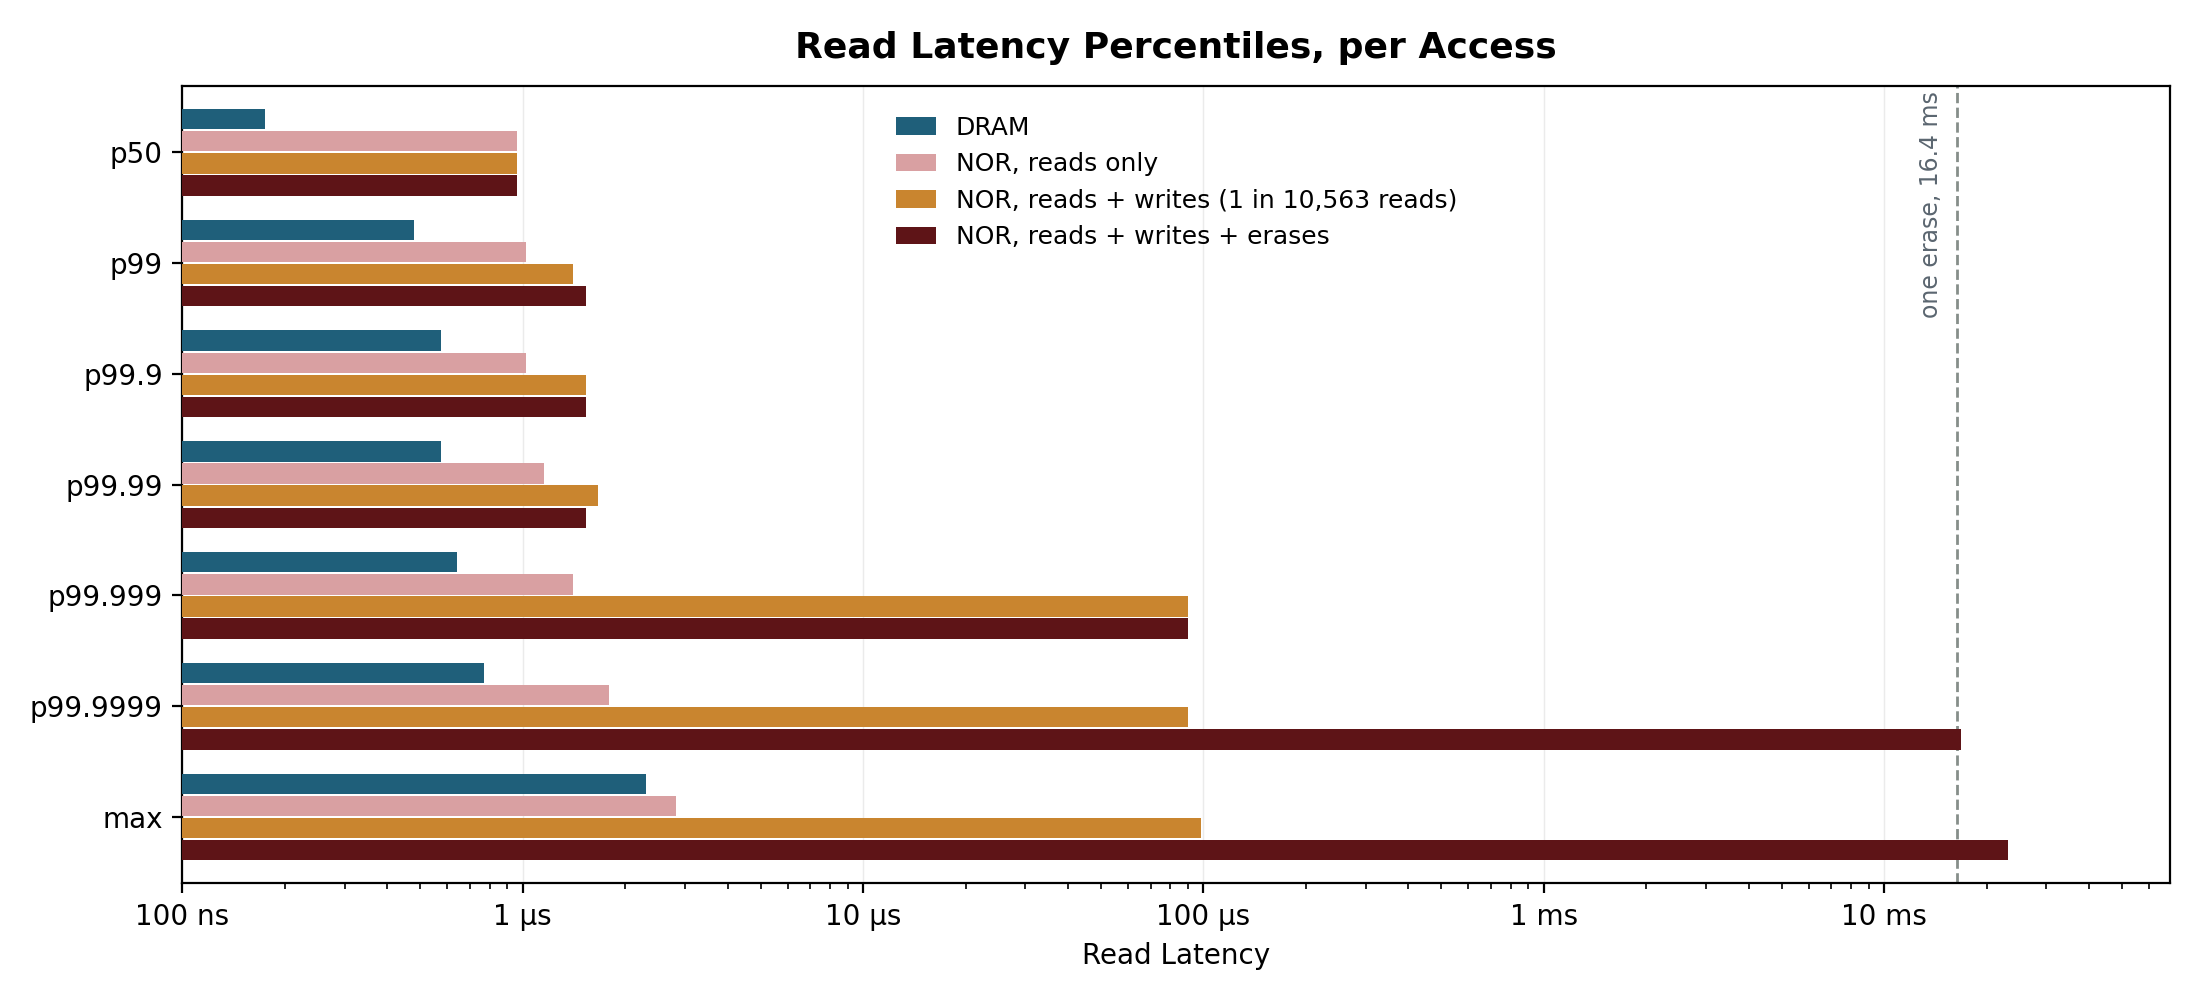
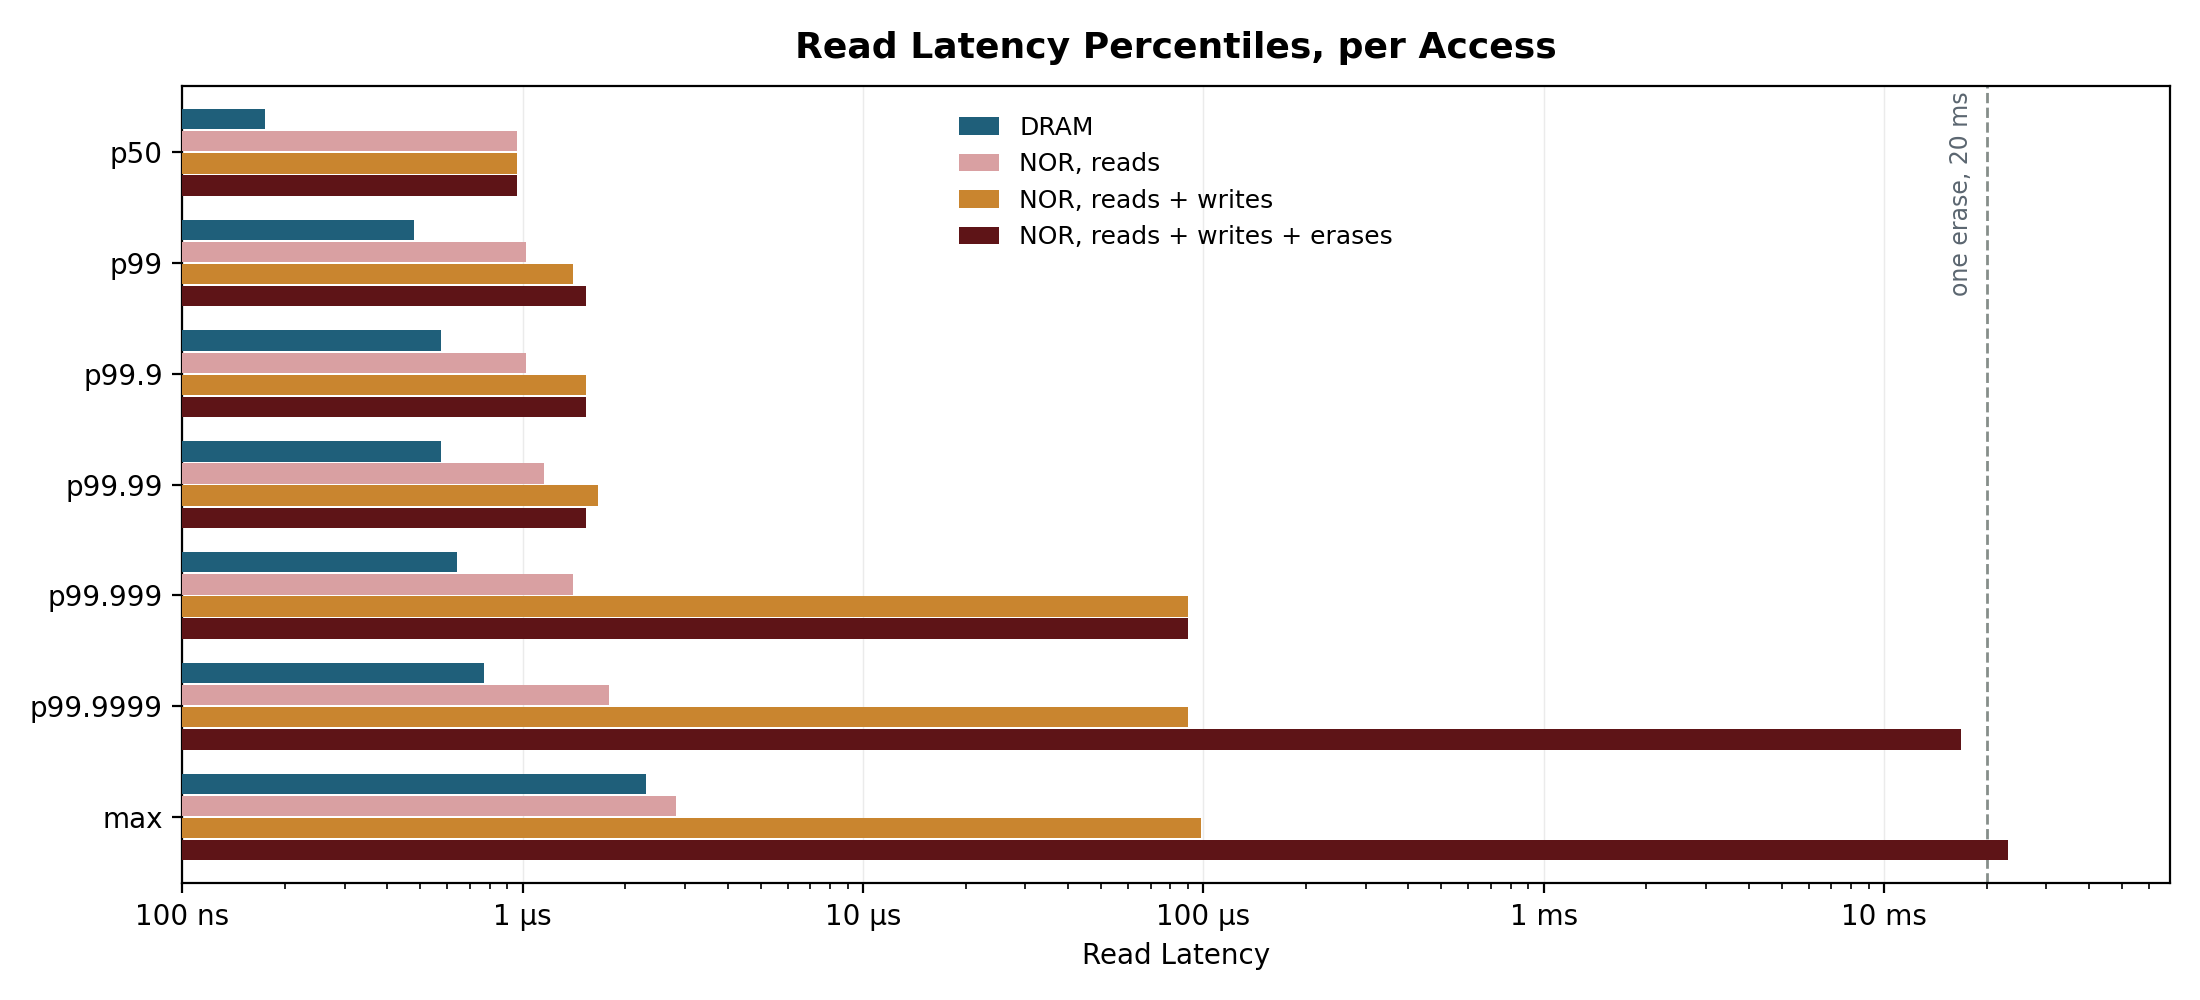
fig9b: datasheet reference lines, and an axis that ends where the data does
The reference lines were 16.4 ms and a per-chunk figure derived by dividing a
1.2 ms page program by 16. The datasheet numbers are 20 ms for an erase and
80 us for a page program, and 80 us needs no dividing: a page IS 256 B, so it
is already the unit a concurrent read waits on. That makes the comparison
direct instead of arithmetic -- measured 90.1 us against a datasheet 80 us --
and 16 x 80 us = 1.28 ms lines up with the 1.13 ms measured for a full 4 KiB.

The old numbers are still asserted in ten other files (selftest.sh, sweep*.sh,
the backend README, ltram_policy.c). Not touched here: they want one sweep
with the datasheet open, not a search-and-replace from a figure commit.

Axis: curves now run to their own 1 - 1/n, which with 169-423 M reads is
99.9999998%, rather than stopping at 99.99997% and ramping to the max. A
straight line out to the max invented a slope through percentiles that were
never resolved; the real shape is a step, and every knee now reads as one.
The 50% tick also moves to 0.301 where nines(0.5) actually is, not 0.

Changed region(s): [[0.4018, 0.093, 0.68, 0.248], [0.8655, 0.093, 0.8964, 0.31]]

diff --git a/scripts/plot_selftest.py b/scripts/plot_selftest.py
@@ -547,10 +547,10 @@ if r:
     # keeps the DRAM blue.
     LABEL = {"dram":            (C_DRAM,    "DRAM"),
              "dram_control":    (C_DRAM,    "DRAM control (no flash at all)"),
-             "nor_read":        ("#D9A0A2", "NOR, reads only"),
+             "nor_read":        ("#D9A0A2", "NOR, reads"),
              "engine_off":      ("#D9A0A2", "NOR, no background erasing"),
-             "nor_write":       ("#C9852F", "NOR, reads + writes (1 in 10,563 reads)"),
-             "nor_erase":       ("#9E2F33", "NOR, reads + erases (1 in 181,903 reads)"),
+             "nor_write":       ("#C9852F", "NOR, reads + writes"),
+             "nor_erase":       ("#9E2F33", "NOR, reads + erases"),
              "erasing":         ("#9E2F33", "NOR, erasing every 28.8 ms"),
              "nor_write_erase": ("#5E1417", "NOR, reads + writes + erases"),
              "engine_spaced":   (C_NOR,     "NOR, erasing at 7.2/s (30 ms spacing)"),
@@ -598,8 +598,8 @@ if r:
                   for j2 in range(len(QS))]
             ax.barh(ys, [v - X0 for v in vals], left=X0, height=h * 0.92,
                     color=colour, label=label, zorder=3)
-        ax.axvline(16.4, color=C_GRID, lw=1, ls="--", zorder=2)
-        ax.annotate("one erase, 16.4 ms", (16.4, len(QS) - 0.45),
+        ax.axvline(20.0, color=C_GRID, lw=1, ls="--", zorder=2)
+        ax.annotate("one erase, 20 ms", (20.0, len(QS) - 0.45),
                     xytext=(-5, 0), textcoords="offset points",
                     ha="right", va="top", fontsize=8.5, color="#5b6670", rotation=90)
         ax.set_yticks(range(len(QS)))
@@ -661,16 +661,22 @@ if r:
         NINES = [(0.5, "50%"), (0.99, "99%"), (0.999, "99.9%"), (0.9999, "99.99%"),
                  (0.99999, "99.999%"), (0.999999, "99.9999%"), (0.9999999, "99.99999%")]
         def nines(q): return -__import__("math").log10(1.0 - q)
+        # The axis ends where the data does. With n reads the largest
+        # observation IS the quantile at 1 - 1/n, so that is the real right
+        # edge; truncating earlier and drawing a straight line out to the max
+        # would invent a slope through percentiles that were never resolved.
+        NS = {c: sum(k for _, k in hist(c)) for c, _, _ in have}
+        XR = max(nines(1.0 - 1.0 / n) for n in NS.values())
         for cond, colour, label in have:
-            n = sum(c for _, c in hist(cond))
-            # Resolve only as far as the sample count supports: the last
-            # meaningful quantile is 1 - 1/n, past which we are plotting one
-            # observation and calling it a percentile.
+            n = NS[cond]
             qmax = 1.0 - 1.0 / n
-            qs = [0.5 + (1 - 0.5) * (1 - 10 ** (-t / 40.0)) for t in range(0, 241)]
+            qs = [1.0 - 0.5 * 10 ** (-t / 40.0) for t in range(0, 401)]
             qs = [q for q in qs if q <= qmax]
             xs = [nines(q) for q in qs]
             ys = [pct(cond, q) for q in qs]
+            # Past its own 1 - 1/n a condition has nothing left to say, and
+            # the empirical quantile is flat at the maximum by definition.
+            xs.append(XR); ys.append(pct(cond, 1.0))
             ax2.plot(xs, ys, "-", color=colour, lw=1.9, label=label)
         # The floor, drawn from the control rather than asserted. With
         # nohz_full=47 isolcpus=47 the scheduler tick is gone -- 60,012
@@ -686,30 +692,36 @@ if r:
                          f"(nothing above it in {sum(c for _, c in hist(ctl[0])):,} control reads)",
                          (0.015, fl * 2.6), xycoords=("axes fraction", "data"),
                          fontsize=8.5, color="#5b6670", va="bottom")
-        ax2.axhline(16_400_000, color=C_GRID, lw=1, ls="--", zorder=1)
-        ax2.axhline(75_000, color=C_GRID, lw=1, ls="--", zorder=1)
-        ax2.annotate("one 256 B program, 75 \u00b5s  (1.2 ms page \u00f7 16)",
-                     (0.012, 75_000), xycoords=("axes fraction", "data"),
+        ax2.axhline(20_000_000, color=C_GRID, lw=1, ls="--", zorder=1)
+        ax2.axhline(80_000, color=C_GRID, lw=1, ls="--", zorder=1)
+        ax2.annotate("one 256 B page program, 80 \u00b5s",
+                     (0.012, 80_000), xycoords=("axes fraction", "data"),
                      xytext=(0, 5), textcoords="offset points", ha="left",
                      fontsize=8.5, color="#5b6670")
         # Right-aligned: the legend owns the top-left, and the curves reach
         # this line only at the far right, so the label sits over empty axis.
         # Mid-axis: the legend owns the top-left and the erase curve climbs
         # through the top-right, so the only clear span is the middle.
-        ax2.annotate("one erase, 16.4 ms", (0.012, 16_400_000),
+        ax2.annotate("one erase, 20 ms", (0.012, 20_000_000),
                      xycoords=("axes fraction", "data"), xytext=(0, 5),
                      textcoords="offset points", ha="left",
                      fontsize=8.5, color="#5b6670")
         ax2.set_yscale("log")
-        XR = nines(0.99999975)
-        ax2.set_xticks([nines(q) for q, _ in NINES] + [XR])
-        ax2.set_xticklabels([lab for _, lab in NINES] + ["100%\n(max)"])
+        # nines(1 - 10**-k) == k exactly for k >= 1, but nines(0.5) is 0.301,
+        # not 0 -- placing the 50% tick at the origin puts it a third of a
+        # decade left of the data.
+        tk = [(nines(0.5), "50%")] + \
+             [(float(k), "%s%%" % ("99.99999999"[:k + 2] if k > 1 else "99"))
+              # ...but not one that collides with the 100% tick at the end.
+              for k in range(1, int(XR) + 1) if XR - k >= 0.9]
+        ax2.set_xticks([k for k, _ in tk] + [XR])
+        ax2.set_xticklabels([lab for _, lab in tk] + ["100%\n(max)"])
         ax2.set_yticks([1e2, 1e3, 1e4, 1e5, 1e6, 1e7])
         ax2.set_yticklabels(["100 ns", "1 \u00b5s", "10 \u00b5s", "100 \u00b5s", "1 ms", "10 ms"])
-        ax2.set_xlim(0, XR)
+        ax2.set_xlim(nines(0.5), XR)
         frame(ax2, "Where the Knees Are", "Percentile", "Read Latency")
         legend_by_last(ax2, fontsize=9, frameon=False, loc="upper left",
-                       bbox_to_anchor=(0.012, 16_400_000 / 1.9),
+                       bbox_to_anchor=(0.012, 20_000_000 / 2.2),
                        bbox_transform=ax2.get_yaxis_transform())
         # Provenance, because "how was this measured" should not require
         # reading a commit message. n is the pooled read count; repeats are
